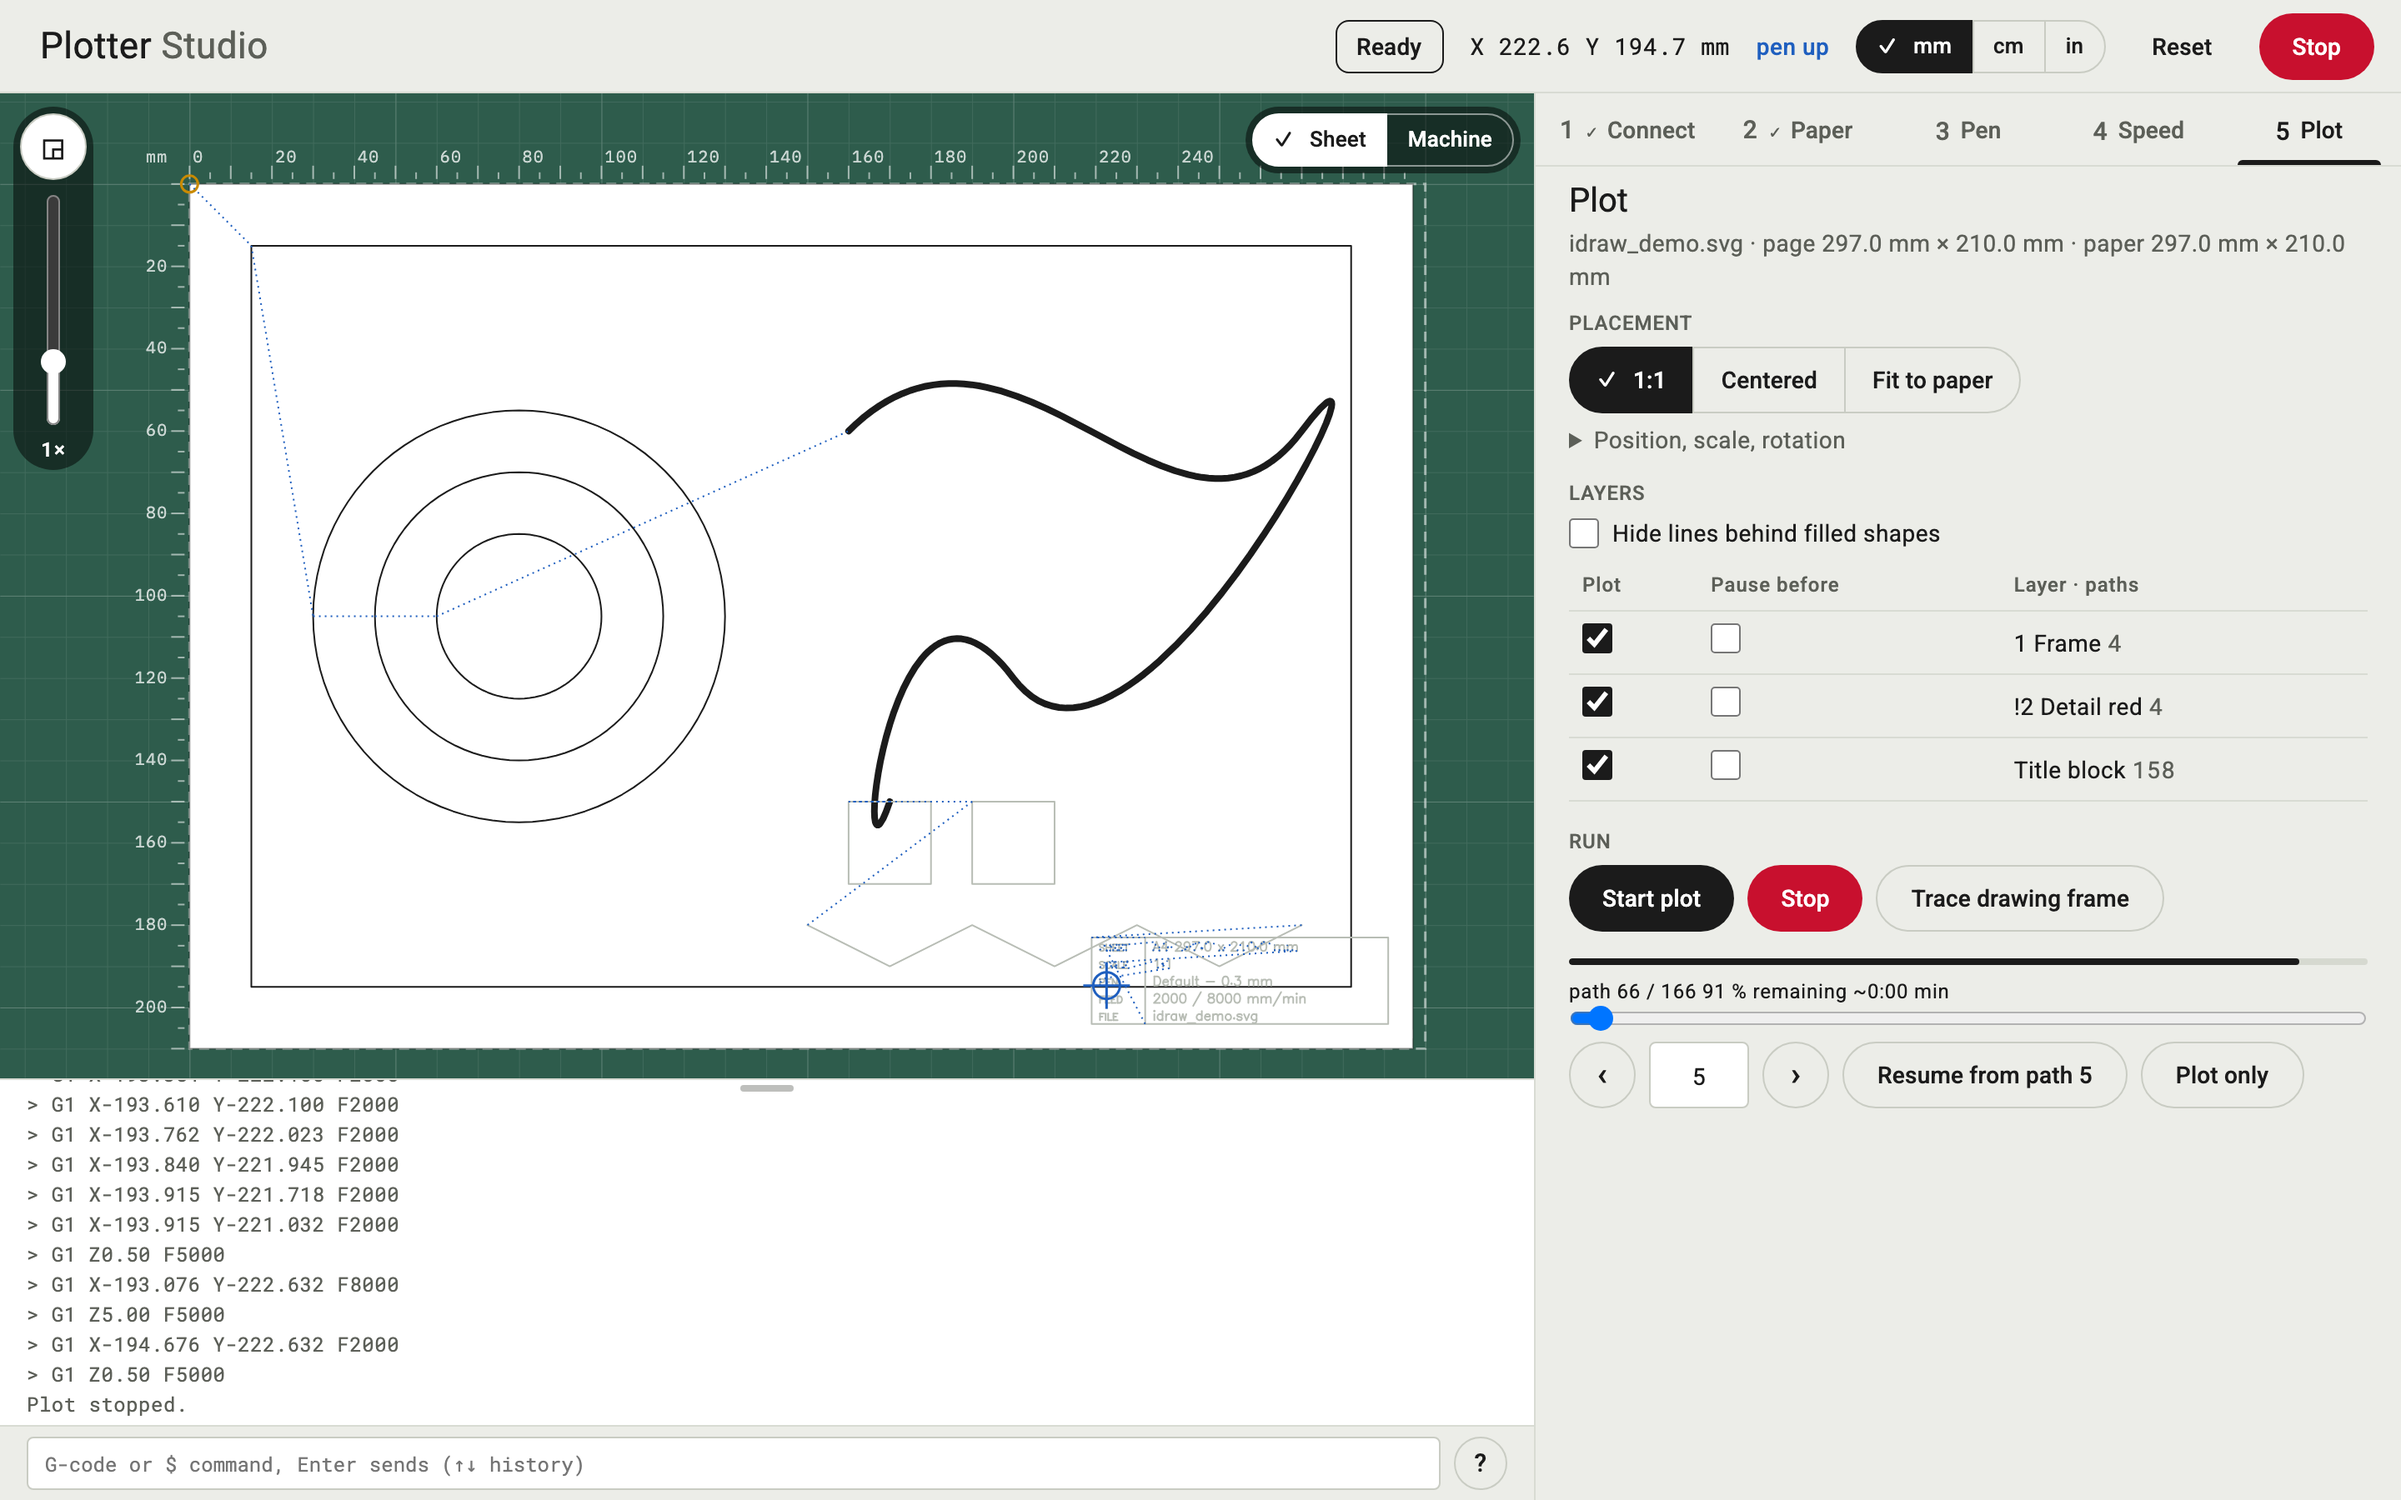
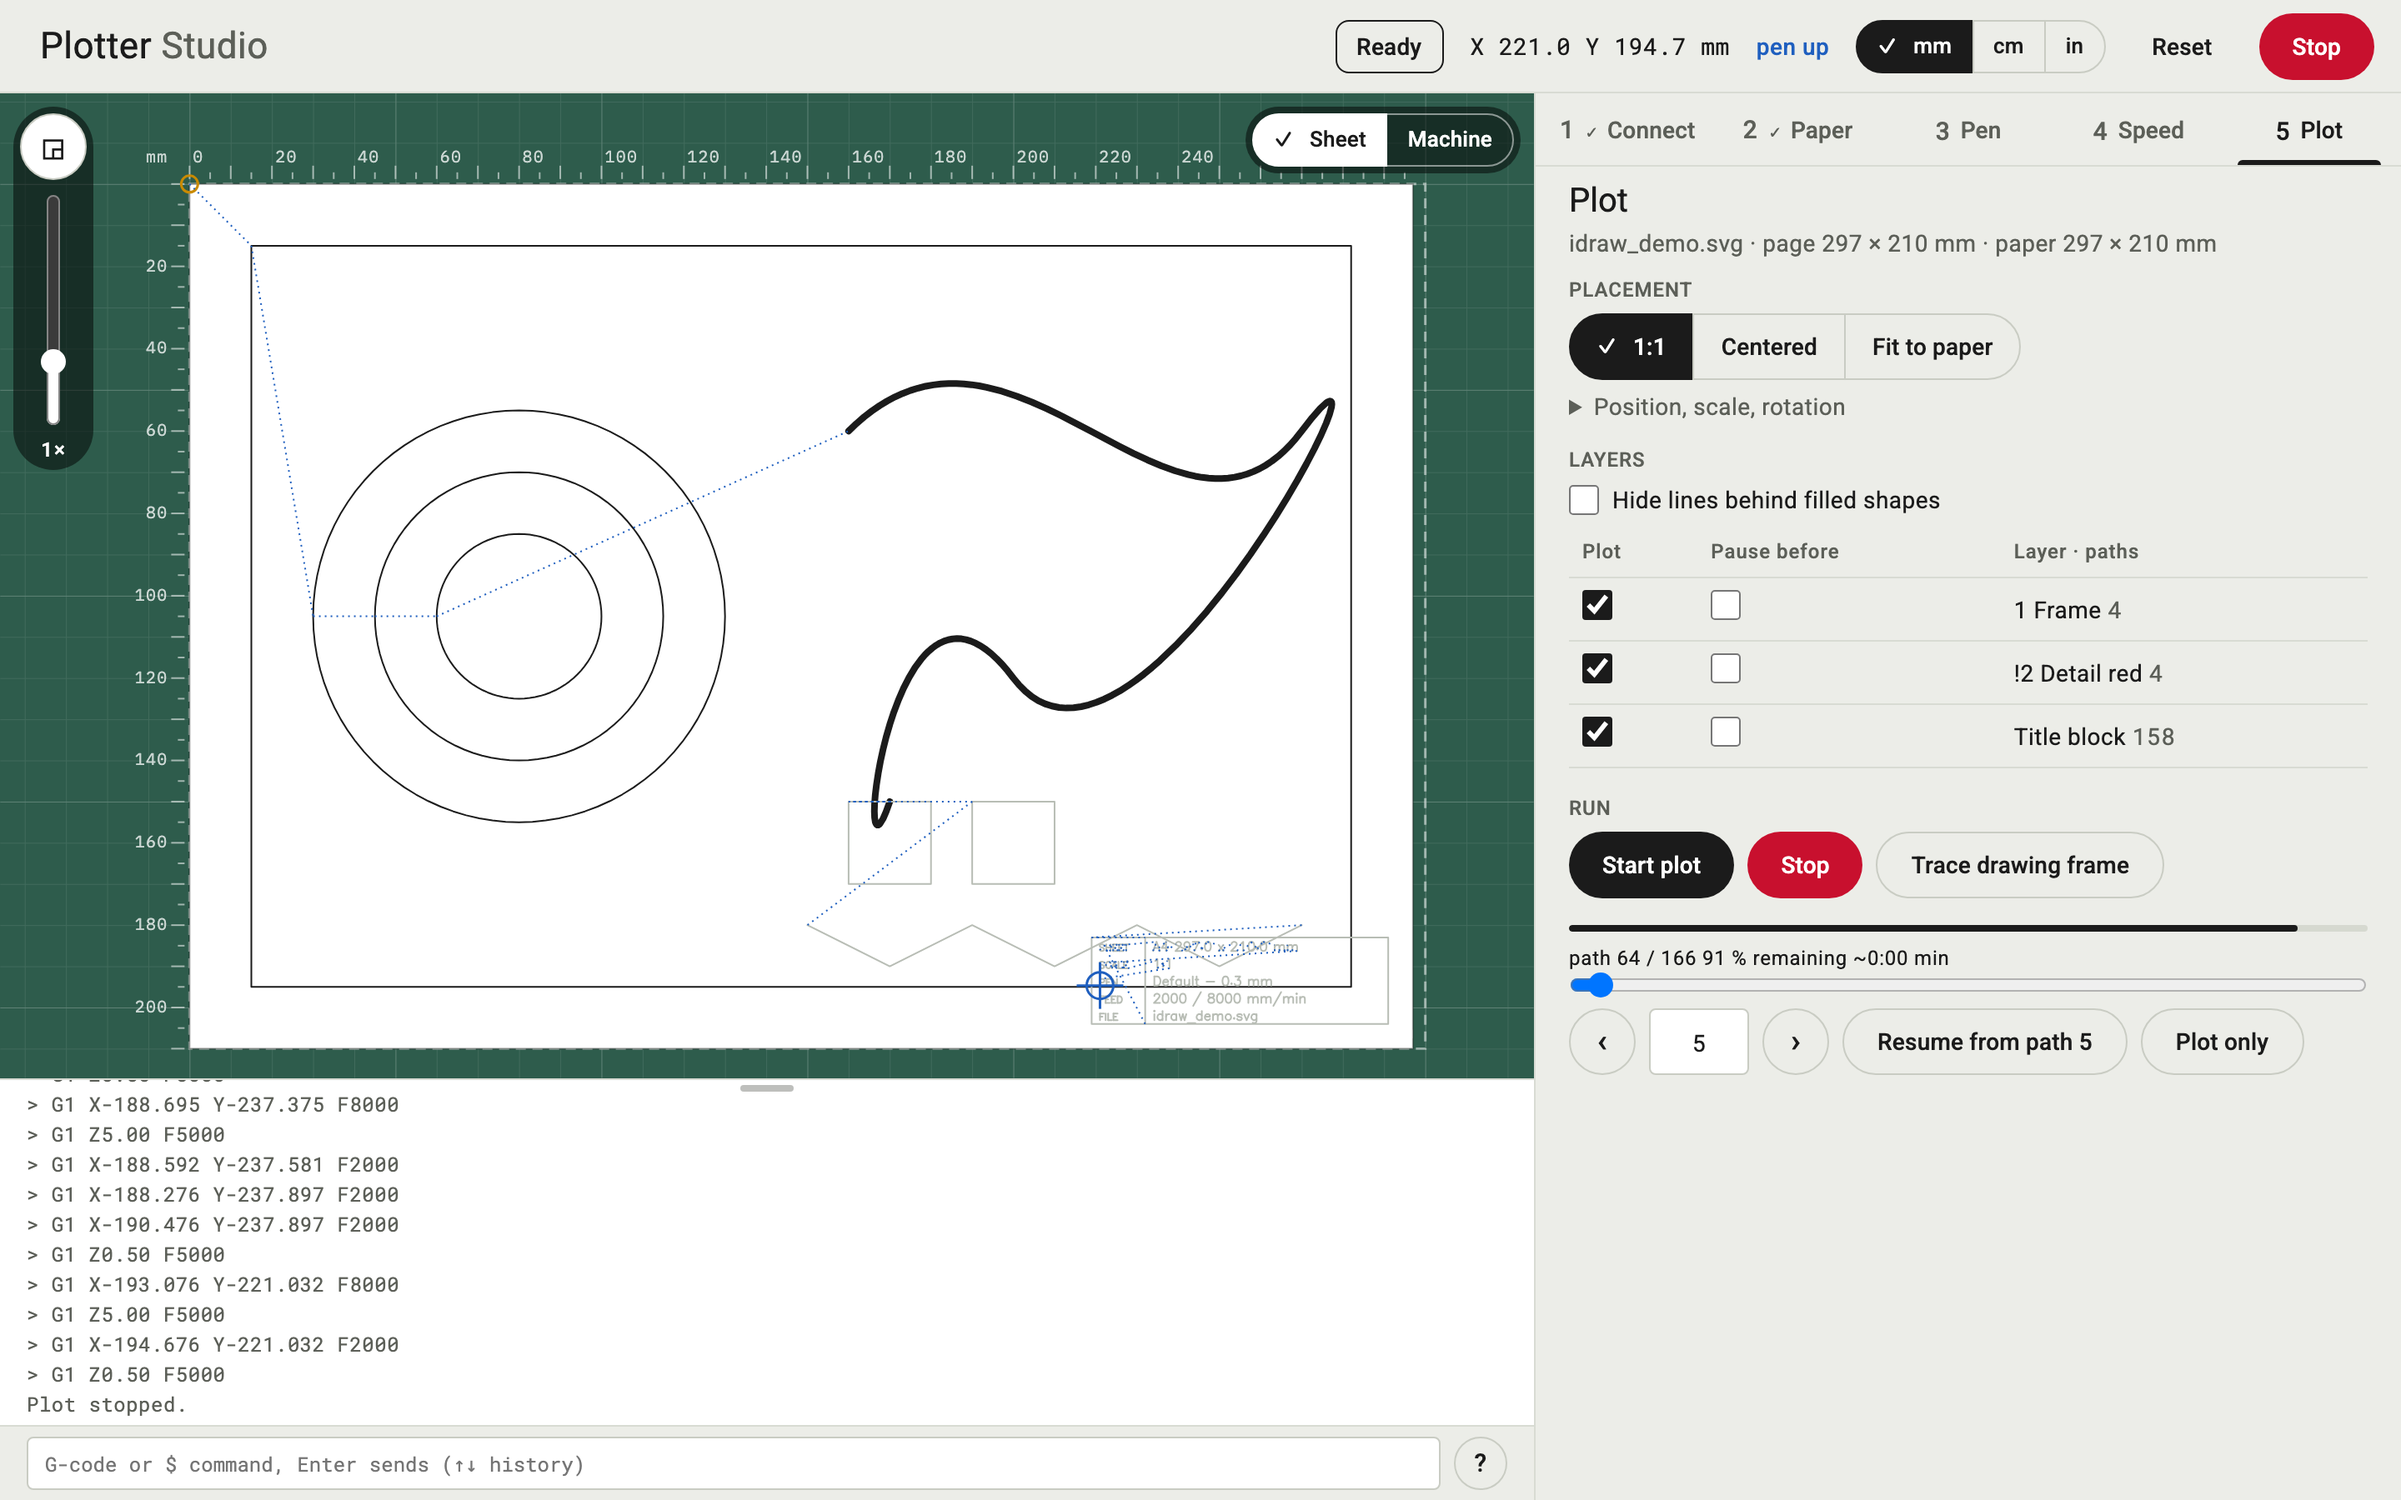
Plot step header: sizes as 297 × 210 mm (unit once, no trailing zeros), so it stays on one line and the step fits without the origin set; manual picture updated

diff --git a/extensions/idraw_web.html b/extensions/idraw_web.html
@@ -273,6 +273,7 @@ const u = () => S ? S.unit : 'mm';
 const toU = mm => (mm / UNIT[u()]).toFixed(DEC[u()]);
 const fromU = v => parseFloat(v) * UNIT[u()];
 const fmt = mm => toU(mm) + ' ' + u();
+const size = ([w, h]) => `${+toU(w)} × ${+toU(h)} ${u()}`;   // 297 × 210 mm: unit once, no trailing zeros
 
 // ---------------------------------------------------------------- server
 async function cmd(name, args) {
@@ -384,7 +385,7 @@ function renderPanel() {
     const rows = S.layers.map((l, i) => `<tr><td><input type="checkbox" data-layer="${i}" data-k="enabled" ${l.enabled ? 'checked' : ''} aria-label="Plot layer ${l.name}"></td>
       <td><input type="checkbox" data-layer="${i}" data-k="pause" ${l.pause ? 'checked' : ''} aria-label="Pause before ${l.name}"></td><td>${l.name} <span class="mono" style="color:var(--md-on-surface-variant)">${l.n}</span></td></tr>`).join('');
     const p = S.progress, pct = p && p.total ? 100 * p.done / p.total : 0;
-    h = hdr('Plot', `${S.svg_name} · page ${fmt(S.page[0])} × ${fmt(S.page[1])} · paper ${fmt(S.paper[0])} × ${fmt(S.paper[1])}`)
+    h = hdr('Plot', `${S.svg_name} · page ${size(S.page)} · paper ${size(S.paper)}`)
       + grp('Placement', `<div class="row"><div class="seg">${[['1:1', '1:1'], ['center', 'Centered'], ['fit', 'Fit to paper']].map(([v, t]) => `<button class="btn ${S.placement === v ? 'on' : ''}" data-pl="${v}">${t}</button>`).join('')}</div></div>
         ${adjustHtml()}
         ${st.origin_set ? '' : '<div class="msg">Origin not set. Go to step 2, or plot from the current position.</div>'}${outsideMsg()}`)

diff --git a/MANUAL.md b/MANUAL.md
@@ -99,7 +99,7 @@ Once a plot has run, a bar under the buttons shows the path number, the share of
 
 Below them you pick a path: drag the slider across the full width, click a path on the board (the pointer turns into a crosshair over a path; with a finger, within about 20 px of the line), type its number in the field and press Enter, or step with ‹ and ›. One click on an arrow moves one path; hold it and it runs on, about 20 paths a second. The picked path is drawn thick, the paths before it count as done. "Resume from path N" next to the field plots from there to the end, for example after a stop or when the pen ran dry. "Plot only" plots just that one path and leaves out the layer pauses, for example to redraw a line the pen skipped. After a stop the picker stands on the path where the plot stopped.
 
-![After a stop at path 65: a click on the curve picked path 5, drawn thick, path number 5 next to the arrows, Resume from path 5 and Plot only in the Run group](docs/manual-resume.png)
+![After a stop: a click on the curve picked path 5, drawn thick, path number 5 next to the arrows, Resume from path 5 and Plot only in the Run group](docs/manual-resume.png)
 
 ## The board
 
